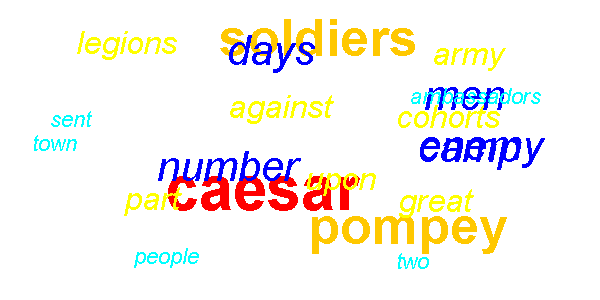
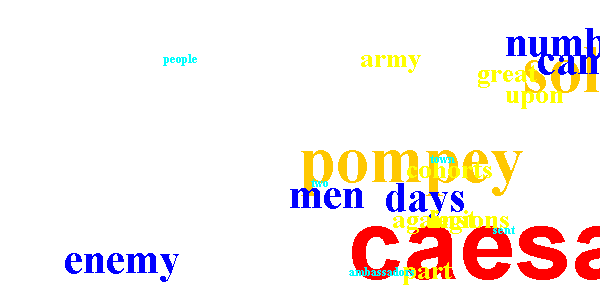
+ some notes on wordle design

diff --git a/WordCloudCreator.java b/WordCloudCreator.java
@@ -4,6 +4,20 @@ import javax.imageio.*;
 import java.io.*;
 
 /*
+plindenbaum.blogspot.com/2010/10/playing-with-wordle-algroithm-gat.html
+    sort words by weight, decreasing
+    for each word w:
+        w.postion:= makeInitialPosition(w);
+        while w intersects other words:
+            updatePosition(w);
+
+code invokes a java.awt.font.TextLayout class to get the shape of the text:
+    and a java.awt.geom.Area to test is two shapes intersects.
+
+http://github.com/lidenb/jsandbox/blob/master/src/sandbox/MyWordle.java
+static.mrfeinberg.com/bv_ch03.pdf
+*/
+/*
 I'm the creator of Wordle. Here's how Wordle actually works:
 
 Count the words, throw away boring words, and sort by the count, descending.
@@ -27,7 +41,7 @@ that covers this same territory: Beautiful Visualization, Chapter 3: Wordle
 
 */
 public class WordCloudCreator {   
-    static int[] wordSizes = {12, 22, 32, 42, 52, 62};
+    static int[] wordSizes = {12, 12, 27, 42, 67, 100};
     final static int sizeX = 600;
     final static int sizeY = 300;
     static int x = (sizeX - wordSizes[wordSizes.length-1]) / 2;   //indicates start location
@@ -76,28 +90,28 @@ public class WordCloudCreator {
 
         switch (wordValue){
             case 5:
-                font = new Font(Font.SANS_SERIF, Font.BOLD, wordSizes[wordValue]);
+                font = new Font("TimesRoman", Font.BOLD, wordSizes[wordValue]);
                 graphics.setColor(Color.red);
                 break;
             case 4:
-                font = new Font(Font.SANS_SERIF, Font.BOLD, wordSizes[wordValue]);
+                font = new Font("TimesRoman", Font.BOLD, wordSizes[wordValue]);
                 graphics.setColor(Color.orange);
                 break;
             case 3:
-                font = new Font(Font.SANS_SERIF, Font.ITALIC, wordSizes[wordValue]);
+                font = new Font("TimesRoman", Font.BOLD, wordSizes[wordValue]);
                 graphics.setColor(Color.blue);
                 break;
             case 2:
-                font = new Font(Font.SANS_SERIF, Font.ITALIC, wordSizes[wordValue]);
+                font = new Font("TimesRoman", Font.BOLD, wordSizes[wordValue]);
                 graphics.setColor(Color.yellow);
                 break;
             case 1:
-                font = new Font(Font.SANS_SERIF, Font.ITALIC, wordSizes[wordValue]);
+                font = new Font("TimesRoman", Font.BOLD, wordSizes[wordValue]);
                 graphics.setColor(Color.cyan);
                 break;
             default:
                 //do not reach 
-                font = new Font(Font.MONOSPACED, Font.PLAIN, wordSizes[0]);
+                font = new Font("TimesRoman", Font.BOLD, wordSizes[0]);
                 graphics.setColor(Color.green);
                 break;
         }
